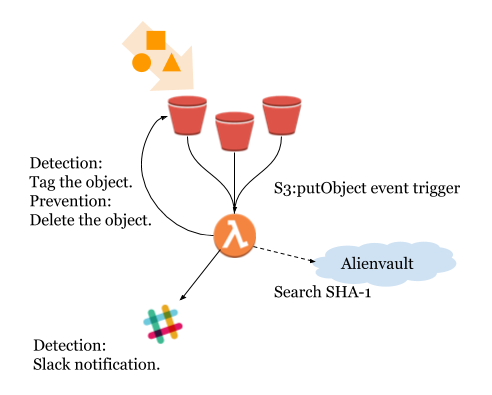
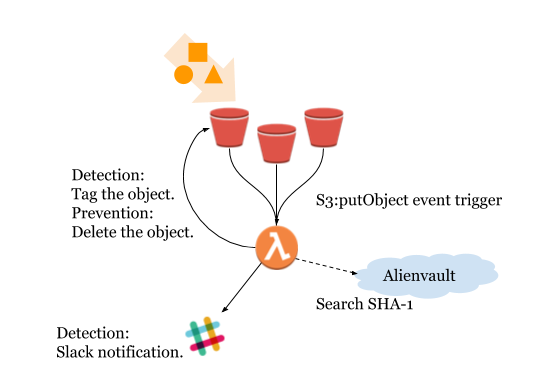
modify diagram

diff --git a/README.md b/README.md
@@ -2,7 +2,7 @@
 Hunting malware in your s3 bucket by Alienvault threat intelligence source.
 
 # Diagram
-![Diagram](Diagram2.png)
+![Diagram](Diagram.png)
 
 # How to use?
 1. Create alienvault account.
